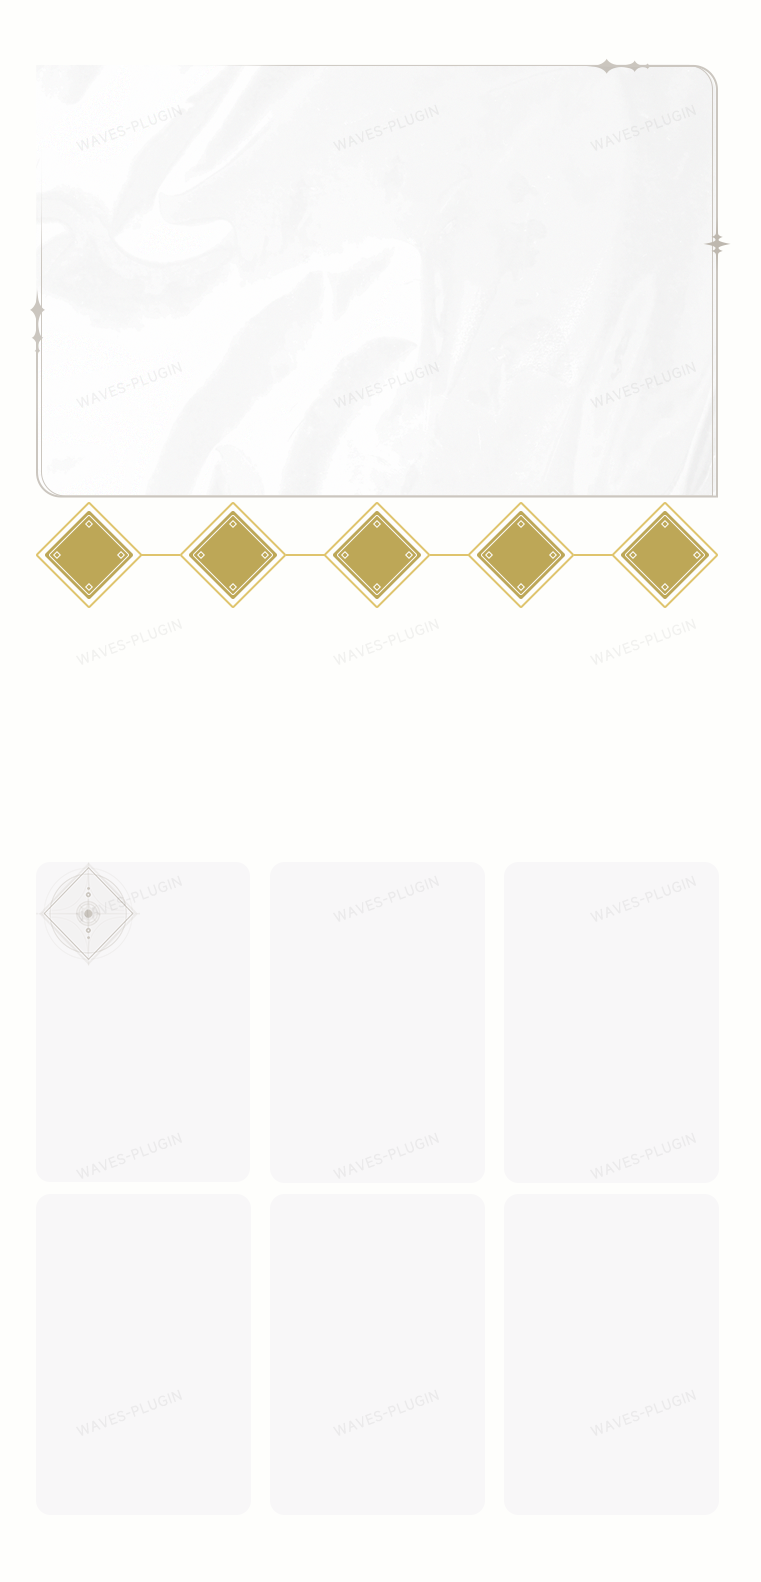
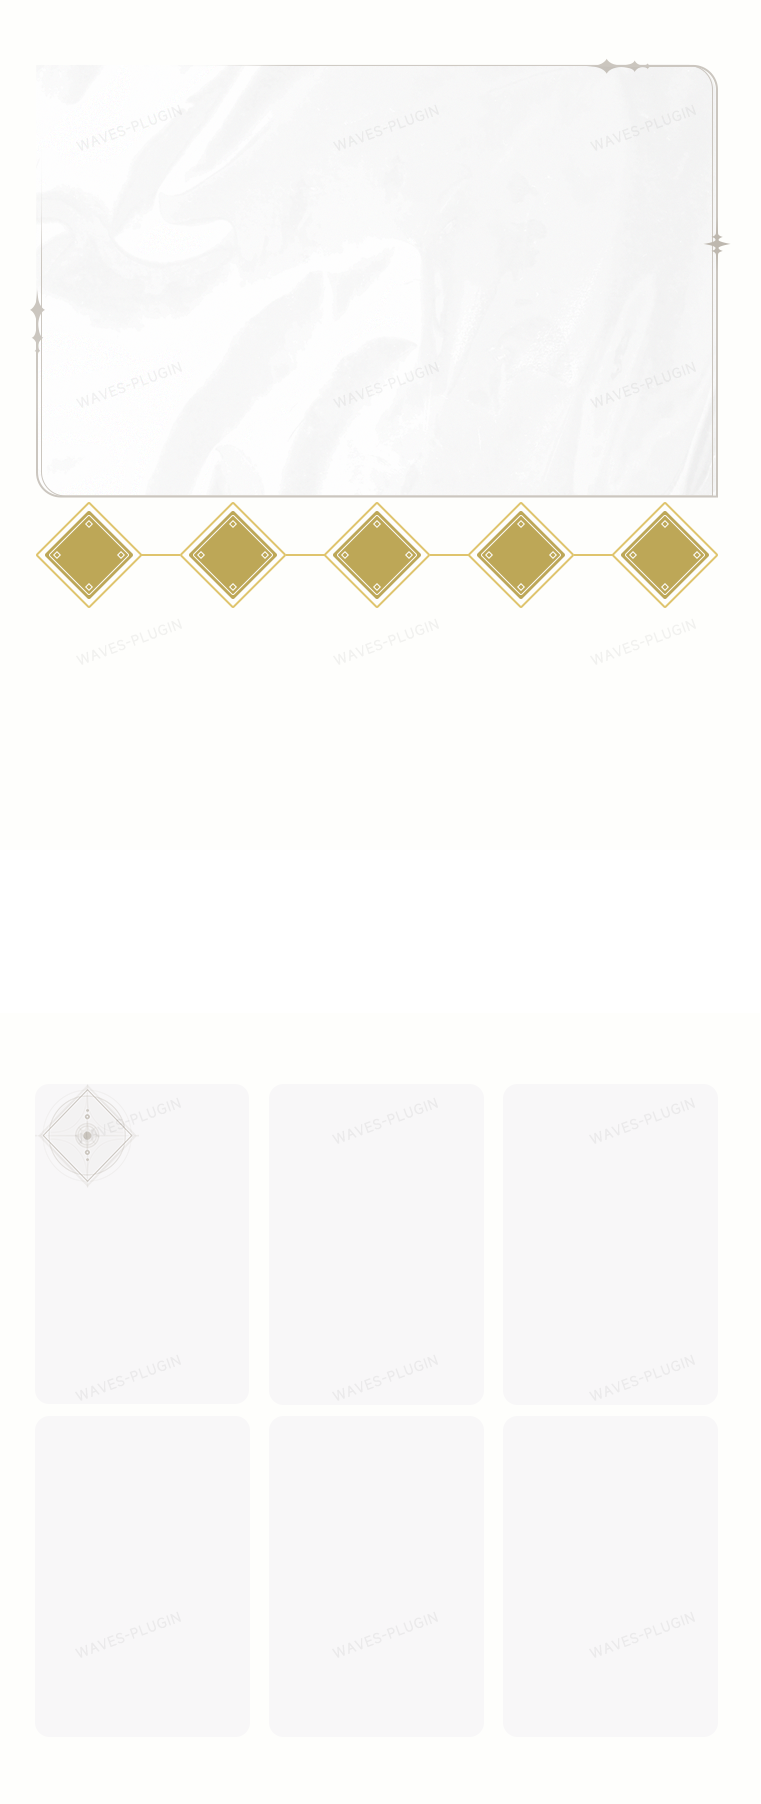
improve: 角色面板支持显示基础数据

diff --git a/resources/Template/charProfile/charProfile.css b/resources/Template/charProfile/charProfile.css
@@ -27,13 +27,13 @@
 #container {
   position: relative;
   width: 761px;
-  height: 1582px;
+  height: 1782px;
   background-image: url(./imgs/rolecard.png);
 }
 
 #weight-version {
   position: absolute;
-  top: 842px;
+  top: 1063px;
   right: 50px;
   font-size: 12px;
   font-style: italic;
@@ -480,4 +480,47 @@
   color: #d3bc8e;
   display: inline-block;
   padding: 0 3px;
+}
+
+.base-attributes {
+    margin: 20px 36px;
+    background-color: #f0ecf0;
+    border-radius: 15px;
+    padding: 15px;
+}
+
+.base-attributes-header {
+    font-size: 24px;
+    font-weight: bold;
+    text-align: center;
+    margin-bottom: 15px;
+    color: #4e4e4e;
+}
+
+.base-attributes-container {
+    display: flex;
+    flex-wrap: wrap;
+    justify-content: space-between;
+}
+
+.attribute-item {
+    width: 32%;
+    display: flex;
+    justify-content: space-between;
+    margin-bottom: 10px;
+    padding: 8px 15px;
+    background-color: #e1e1e1;
+    border-radius: 8px;
+    font-size: 18px;
+}
+
+.attribute-name {
+    font-weight: bold;
+    color: #4e4e4e;
+}
+
+.attribute-value {
+    font-family: "framdit";
+    color: #9d2933;
+    font-weight: bold;
 }

diff --git a/resources/Template/charProfile/charProfile.html b/resources/Template/charProfile/charProfile.html
@@ -62,6 +62,17 @@
                 {{/each}}
             </div>
         </div>
+        <div class="base-attributes">
+            <div class="base-attributes-header">角色属性</div>
+            <div class="base-attributes-container">
+                {{each data.roleDetail.data.roleAttributeList attr}}
+                <div class="attribute-item">
+                    <div class="attribute-name">{{attr.attributeName}}</div>
+                    <div class="attribute-value">{{attr.attributeValue}}</div>
+                </div>
+                {{/each}}
+            </div>
+        </div>
         <div class="total-score-table">
             {{if data.roleDetail.data.phantomData.statistic}}
             <div class="total-score-table-left">
